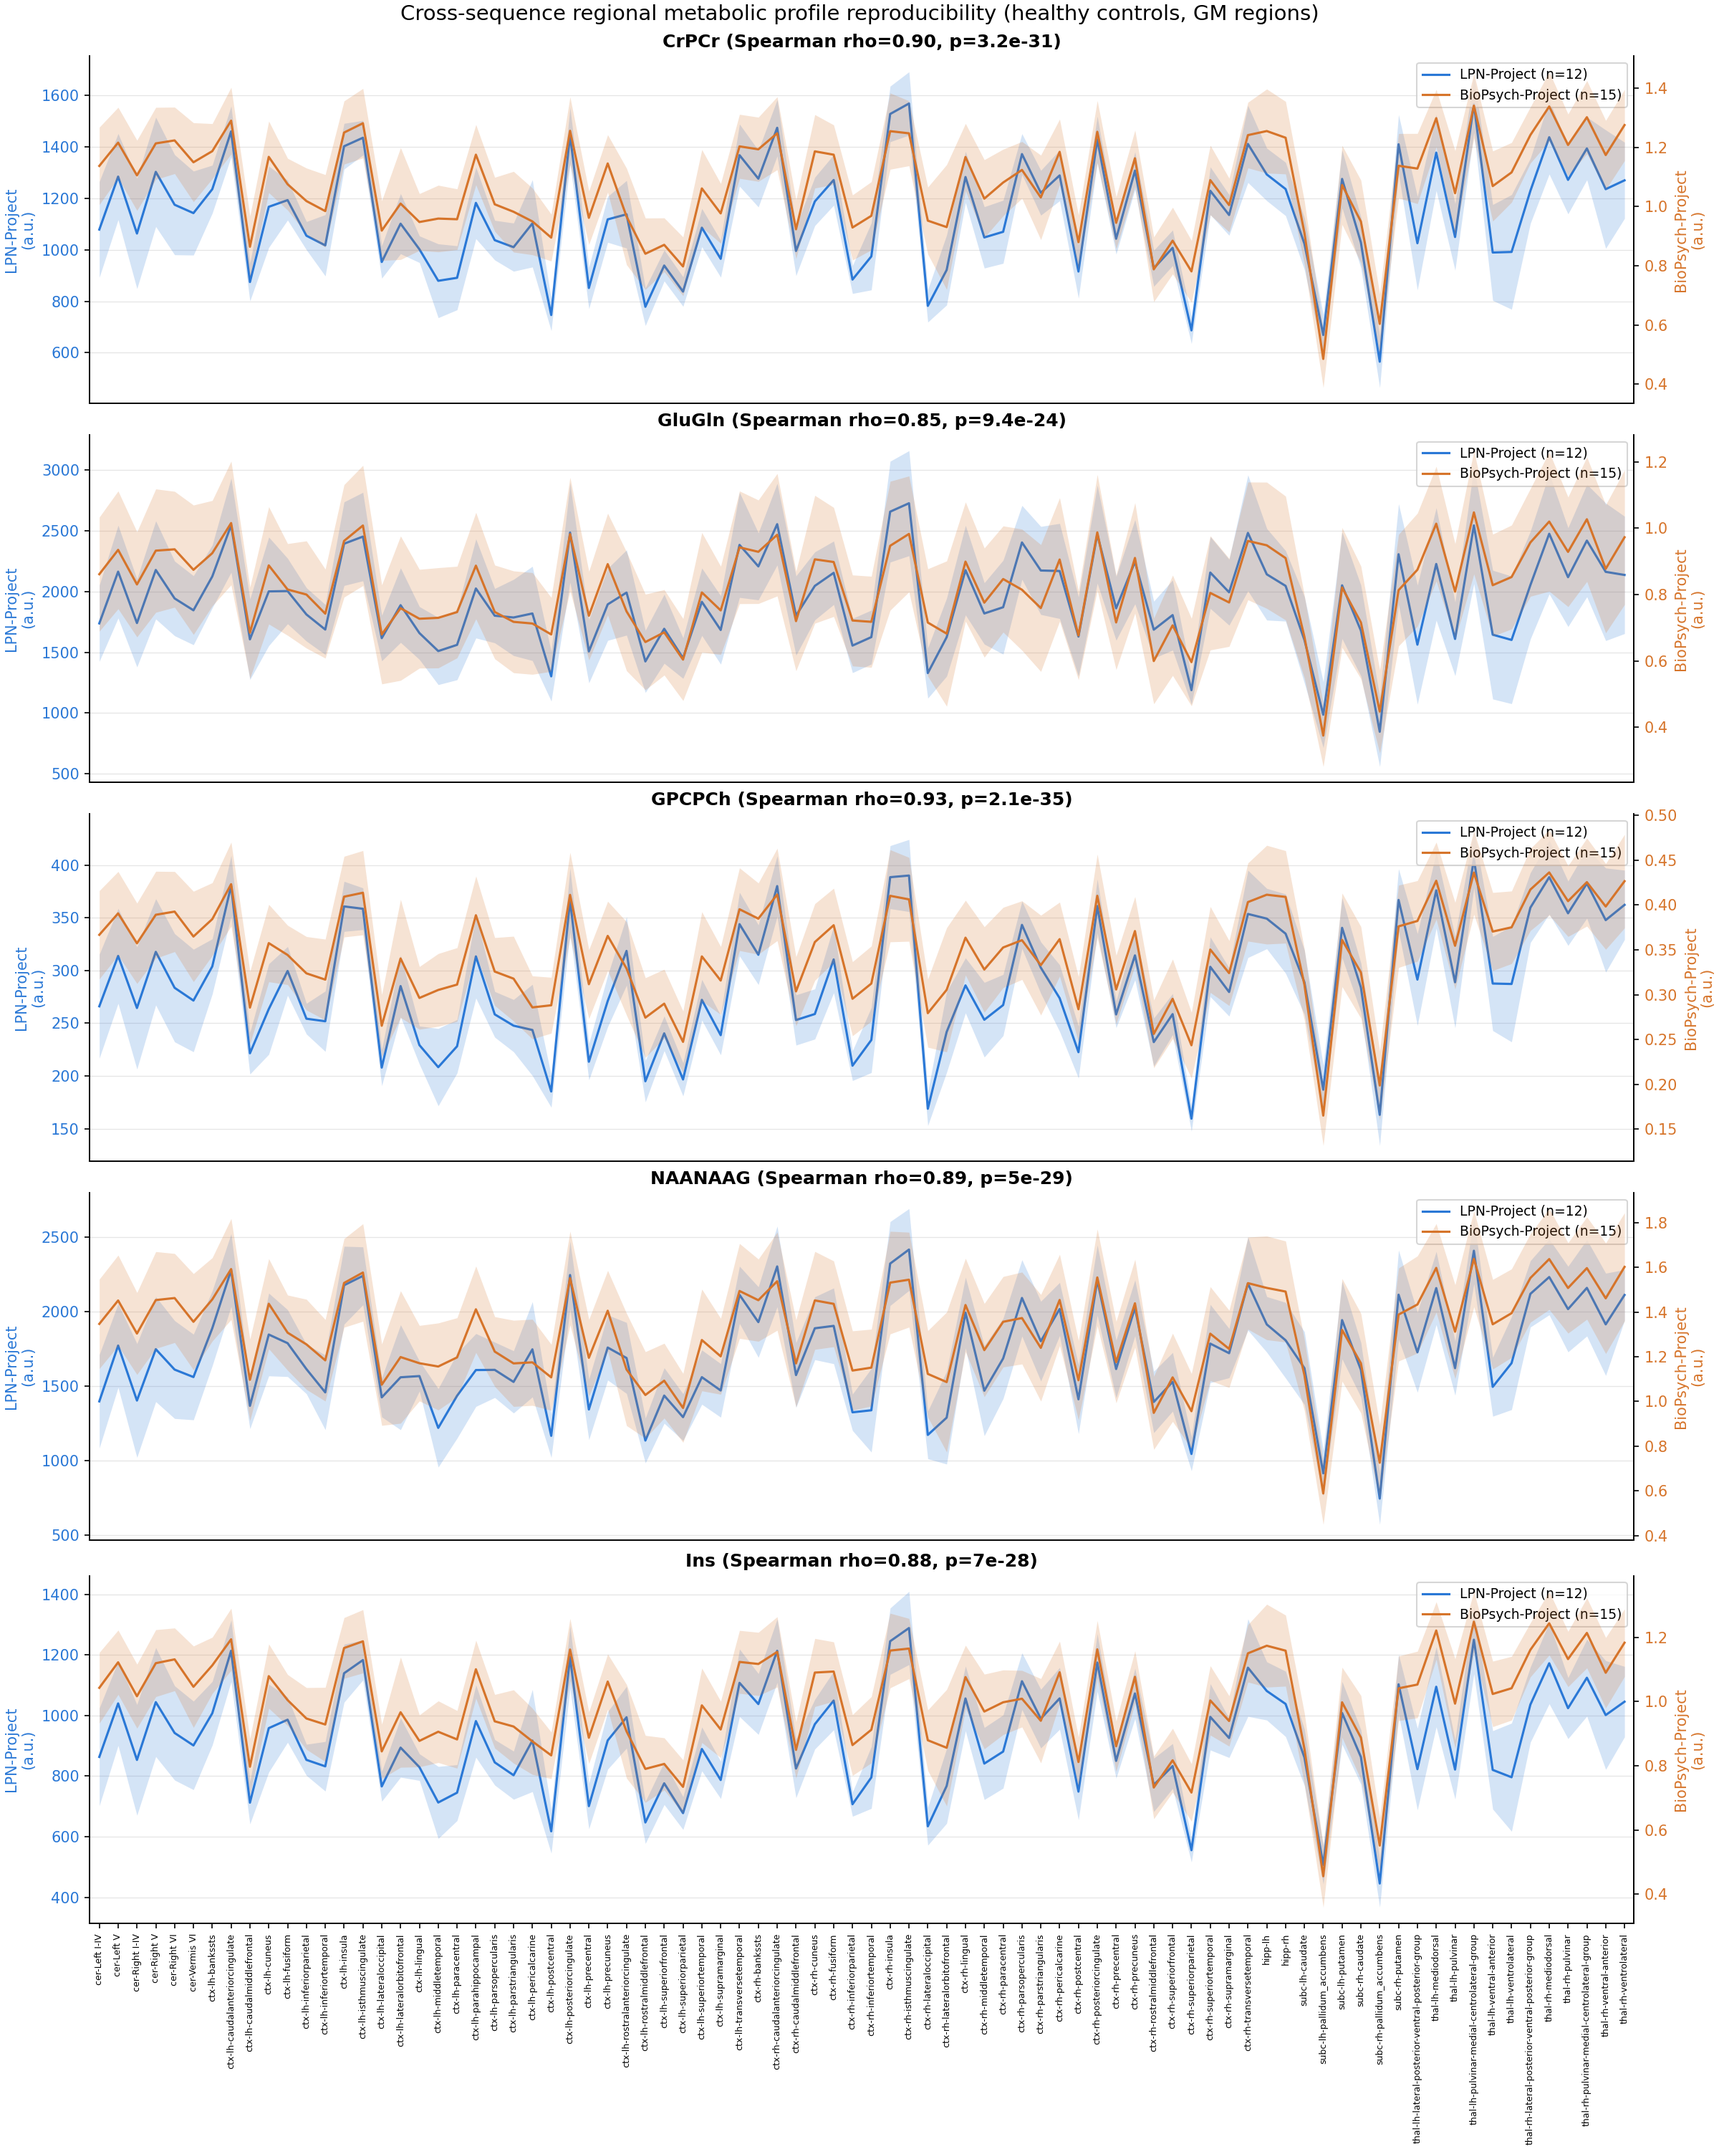
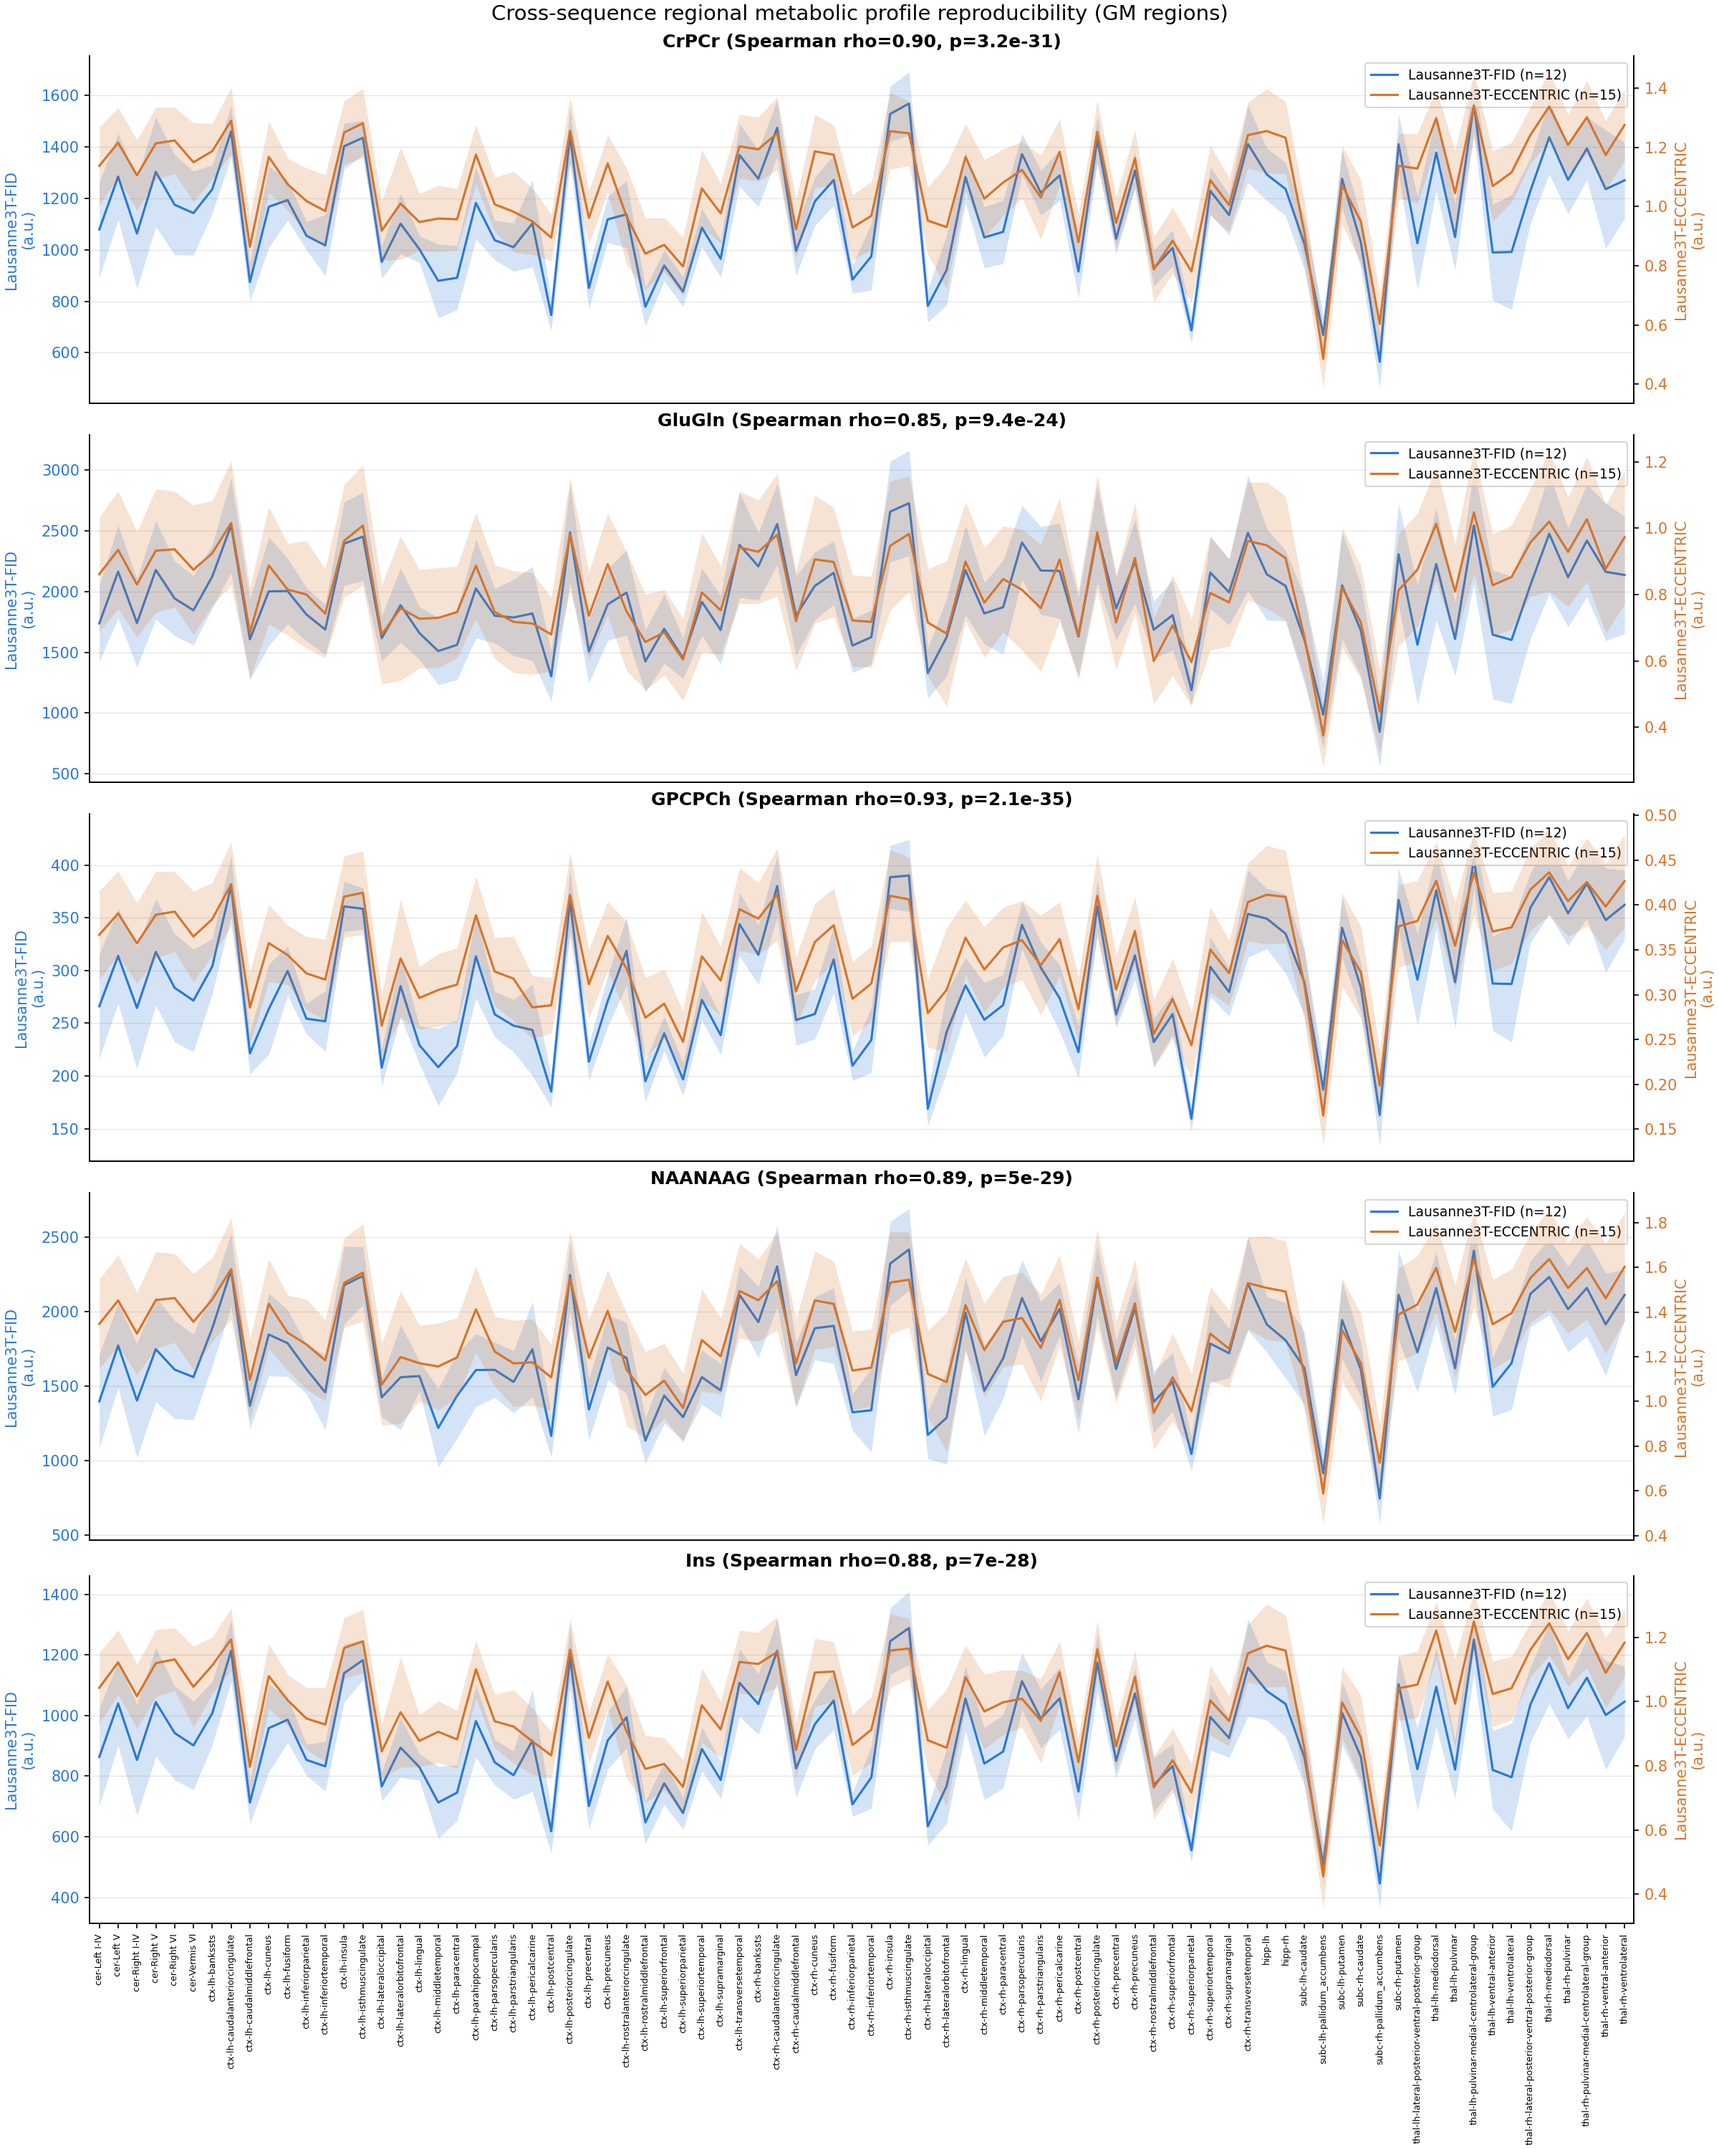
Anonymize cross-sequence benchmark: drop project/site names and clinical labels
Rename LPN-Project/BioPsych-Project to Lausanne3T-FID/Lausanne3T-ECCENTRIC,
remove participant ID prefixes, drop healthy-control/patient language (just
report sample sizes), and remove the Interpretation section. Regenerated
the figure from source so its baked-in axis labels match.

diff --git a/docs/cross_sequence_benchmark.md b/docs/cross_sequence_benchmark.md
@@ -18,26 +18,12 @@ absolute values agree.
 
 ## Dataset
 
-Two independently acquired real-world cohorts, merged into one group-level
-MRSIPrep connectivity/profile archive
-(`LPN-BioPsych-Project_atlas-chimeraLFMIHIFIS_scale3_desc-group_connectivity_mrsi.npz`):
+Two independently acquired real-world datasets, merged into one group-level
+MRSIPrep connectivity/profile archive.
 
-| | LPN-Project | BioPsych-Project |
+| | Lausanne3T-FID | Lausanne3T-ECCENTRIC |
 |---|---|---|
-| `MRSI_SEQ` code | 0 | 1 |
-| Participant ID prefixes | `CHUVA`, `CHUVL`, `CHUVF` | `CHUVUP`, `CHUVLFT` |
-| n (healthy controls, after exclusion) | 12 | 15 |
-
-Restricted to healthy controls (`Cohort == 'CTRL'`, equivalently
-`Diag == 0` / `State == 0` — all three fields agree exactly on the same 28
-subjects) specifically so the comparison isolates acquisition effects from
-clinical-group composition; the full merged cohort's `MRSI_SEQ` does **not**
-collapse onto diagnostic group (both sequences mix CTRL/ARMS/EPP/LOFT/EP
-subjects elsewhere), so restricting to controls here is a deliberate choice
-to compare like with like, not a workaround for a confounded design. Of 28
-available controls, 1 was excluded for flagged spectral quality
-(`exclude` or `exclude_noisy_metsim` in the archive's `covars` field),
-leaving 27 (12 LPN-Project, 15 BioPsych-Project).
+| n | 12 | 15 |
 
 ## Method
 
@@ -71,7 +57,7 @@ each of the 203 parcels of the `chimeraLFMIHIFIS` scale-3 parcellation:
 
 ## Results
 
-![Cross-sequence regional metabolic profile reproducibility, healthy controls, 82 GM root regions, all 5 metabolites, each cohort on its own y-axis with 95% CI bands](figures/cross_sequence_regional_profile.png)
+![Cross-sequence regional metabolic profile reproducibility, 82 GM root regions, all 5 metabolites, each cohort on its own y-axis with 95% CI bands](figures/cross_sequence_regional_profile.png)
 
 | Metabolite | Spearman ρ | p-value | n roots |
 |---|---:|---:|---:|
@@ -80,43 +66,3 @@ each of the 203 parcels of the `chimeraLFMIHIFIS` scale-3 parcellation:
 | NAANAAG | 0.89 | 5.0×10⁻²⁹ | 82 |
 | Ins | 0.88 | 7.0×10⁻²⁸ | 82 |
 | GluGln | 0.85 | 9.4×10⁻²⁴ | 82 |
-
-### Interpretation
-
-* **Regional profiles reproduce strongly across sites and sequences for
-  every metabolite tested** (ρ = 0.85–0.93, all p < 10⁻²³). This is direct
-  evidence that MRSIPrep's registration, parcellation, and regional-profile
-  estimation preserve genuine spatial structure in the underlying
-  metabolite maps across acquisitions that differ in essentially every
-  technical respect except the processing pipeline itself — not just on
-  the specific acquisition the pipeline was developed and tuned against.
-
-* **LPN-Project and BioPsych-Project's absolute signal levels differ by
-  roughly three orders of magnitude** (LPN-Project regional values in the
-  hundreds-to-low-thousands; BioPsych-Project in the 0–2 range), uniform
-  in direction and magnitude across all five metabolites. This is
-  consistent with a scanner-, sequence-, or reconstruction-level scaling
-  or referencing difference between the two acquisitions, not a
-  biological effect or a pipeline artifact — a genuinely different
-  absolute unit convention upstream of MRSIPrep, not something MRSIPrep
-  itself introduces. The figure above plots each cohort on its own
-  y-axis specifically to make the shared *pattern* visible despite this;
-  the Spearman correlations are computed on each cohort's native scale,
-  before that per-axis rescaling for display, and are unaffected by it
-  (Spearman's rank correlation is scale- and offset-invariant by
-  construction).
-
-* **Practical consequence**: any secondary analysis that pools MRSIPrep
-  regional outputs across these two cohorts directly — a group comparison
-  or a connectivity analysis spanning both — would need an explicit
-  harmonization or normalization step first, despite the underlying
-  relative regional pattern being highly consistent. Reproducibility of
-  pattern does not imply poolability of raw values.
-
-* **GPCPCh has the strongest cross-cohort agreement (ρ = 0.93) and GluGln
-  the weakest (ρ = 0.85)**, though the weakest is still a strong, highly
-  significant correlation. This differentiation across metabolites is
-  more informative than a single pooled "everything correlates" number
-  would be, and is broadly consistent with GluGln's known greater
-  sensitivity to sequence and TE choice relative to more robust
-  metabolites like creatine-referenced signals.
